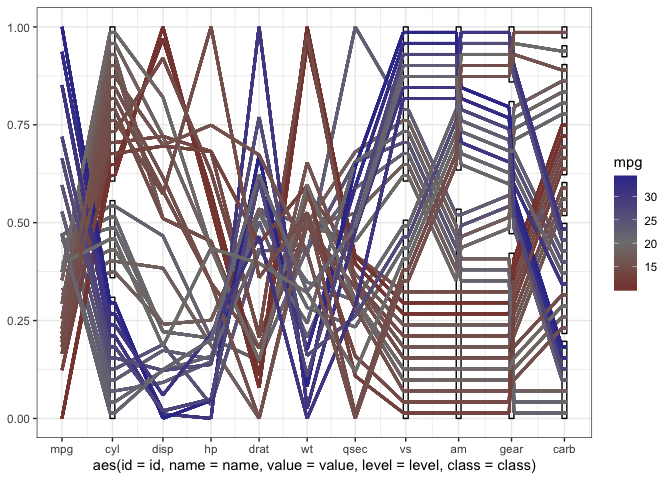
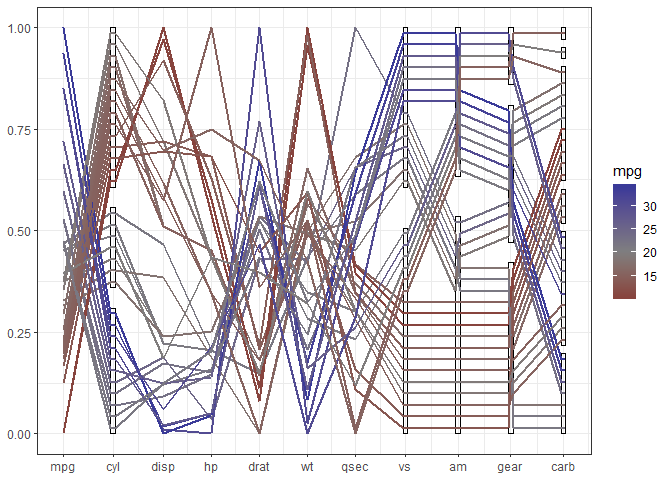
rename the breaks in the README file(with pandoc issues with badges unsolved, and it's unexpected slow on my new computer)

diff --git a/README.md b/README.md
@@ -1,7 +1,7 @@
 ---
 title: "ggpcp"
 author: "Yawei Ge, Heike Hofmann"
-date: "July 11, 2019"
+date: "July 23, 2019"
 output: 
   html_document:
     keep_md: true
@@ -11,9 +11,12 @@ output:
 
 R package for creating parallel coordinate plots in the ggplot2 framework
 
-[![CRAN Status](http://www.r-pkg.org/badges/version/ggpcp)](https://cran.r-project.org/package=ggpcp) [![CRAN RStudio mirror downloads](http://cranlogs.r-pkg.org/badges/ggpcp)](http://www.r-pkg.org/pkg/ggpcp) 
-[![Travis build status](https://travis-ci.org/yaweige/ggpcp.svg?branch=master)](https://travis-ci.org/yaweige/ggpcp)
 
+```r
+# [![CRAN Status](http://www.r-pkg.org/badges/version/ggpcp)](https://cran.r-project.org/package=ggpcp) [![CRAN RStudio mirror downloads](http://cranlogs.r-pkg.org/badges/ggpcp)](http://www.r-pkg.org/pkg/ggpcp) 
+
+# [![Travis build status](https://travis-ci.org/yaweige/ggpcp.svg?branch=master)](https://travis-ci.org/yaweige/ggpcp)
+```
 
 
 # Installation
@@ -97,7 +100,7 @@ By setting break points between blocks of categorical variables, we can focus on
 titanic %>% 
   gather_pcp(1:4) %>%
   ggplot(aes(id = id, name = name, value = value, level = level, class = class)) + 
-  geom_pcp(aes(colour = Class), alpha = 0.01, breaks=2:3) +
+  geom_pcp(aes(colour = Class), alpha = 0.01, breakpoint=2:3) +
 #  scale_colour_manual(values=c("darkorange", "steelblue")) +
   guides(colour=guide_legend(override.aes = list(alpha=1))) +
   scale_x_continuous(breaks=1:4, labels=c(names(titanic)))
@@ -113,7 +116,7 @@ titanic %>%
   gather_pcp(1:4) %>%
   ggplot(aes(id = id, name = name, value = value, level = level, class = class)) + 
   geom_pcp_box(boxwidth=0.1, fill=NA) +
-  geom_pcp(aes(colour = Class), alpha = 0.01, boxwidth=0.1, breaks=2:3) +
+  geom_pcp(aes(colour = Class), alpha = 0.01, boxwidth=0.1, breakpoint=2:3) +
   guides(colour=guide_legend(override.aes = list(alpha=1))) +
   scale_x_continuous(breaks=1:4+ 1:4*0.1-0.05, labels=c(names(titanic)))
 ```
@@ -147,10 +150,10 @@ mtcars %>%
          gear=factor(gear),
          carb = factor(carb)) %>%
   gather_pcp(1:ncol(mtcars)) %>%
-  transform_pcp(method = "minmax") %>%
+  transform_pcp(method = "uniminmax") %>%
   ggplot(aes(id = id, name = name, value = value, level = level, class = class)) +
   geom_pcp_box(boxwidth=0.1, fill=NA, colour="grey70") +
-  geom_pcp(aes(colour = mpg), boxwidth=0.1, breaks=9:10, size=1, alpha =0.9) +
+  geom_pcp(aes(colour = mpg), boxwidth=0.1, breakpoint=9:10, size=1, alpha =0.9) +
   scale_x_continuous(breaks=1:ncol(mtcars) + 
                        0.1*cumsum(c(0,1, 0,0,0,0,0,1,1,1,1)) -
                        0.05*c(0,1, 0,0,0,0,0,1,1,1,1), labels=c(names(mtcars))) +
